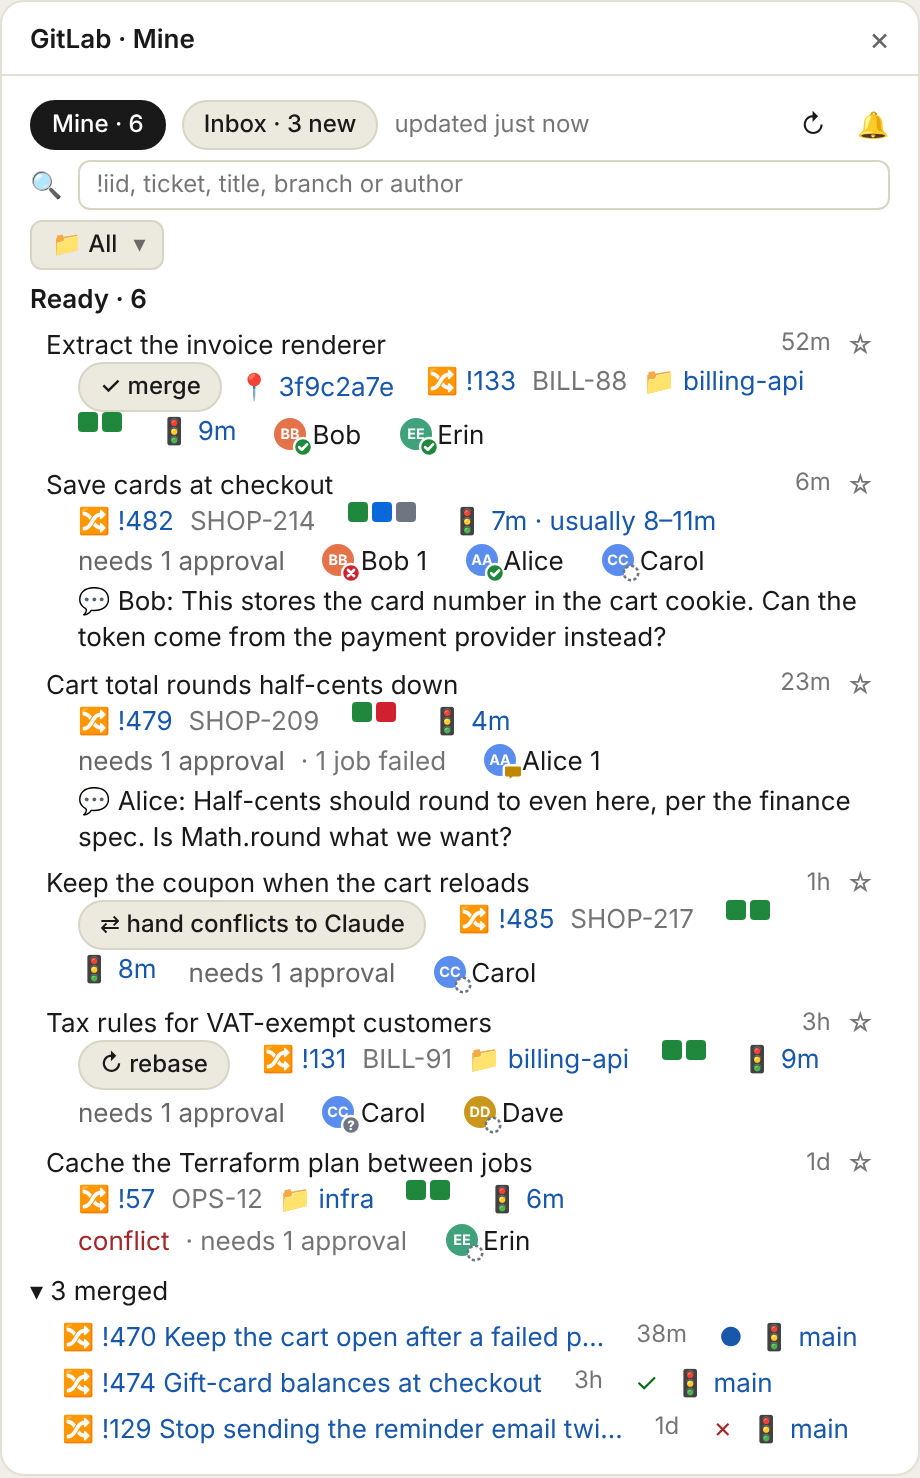
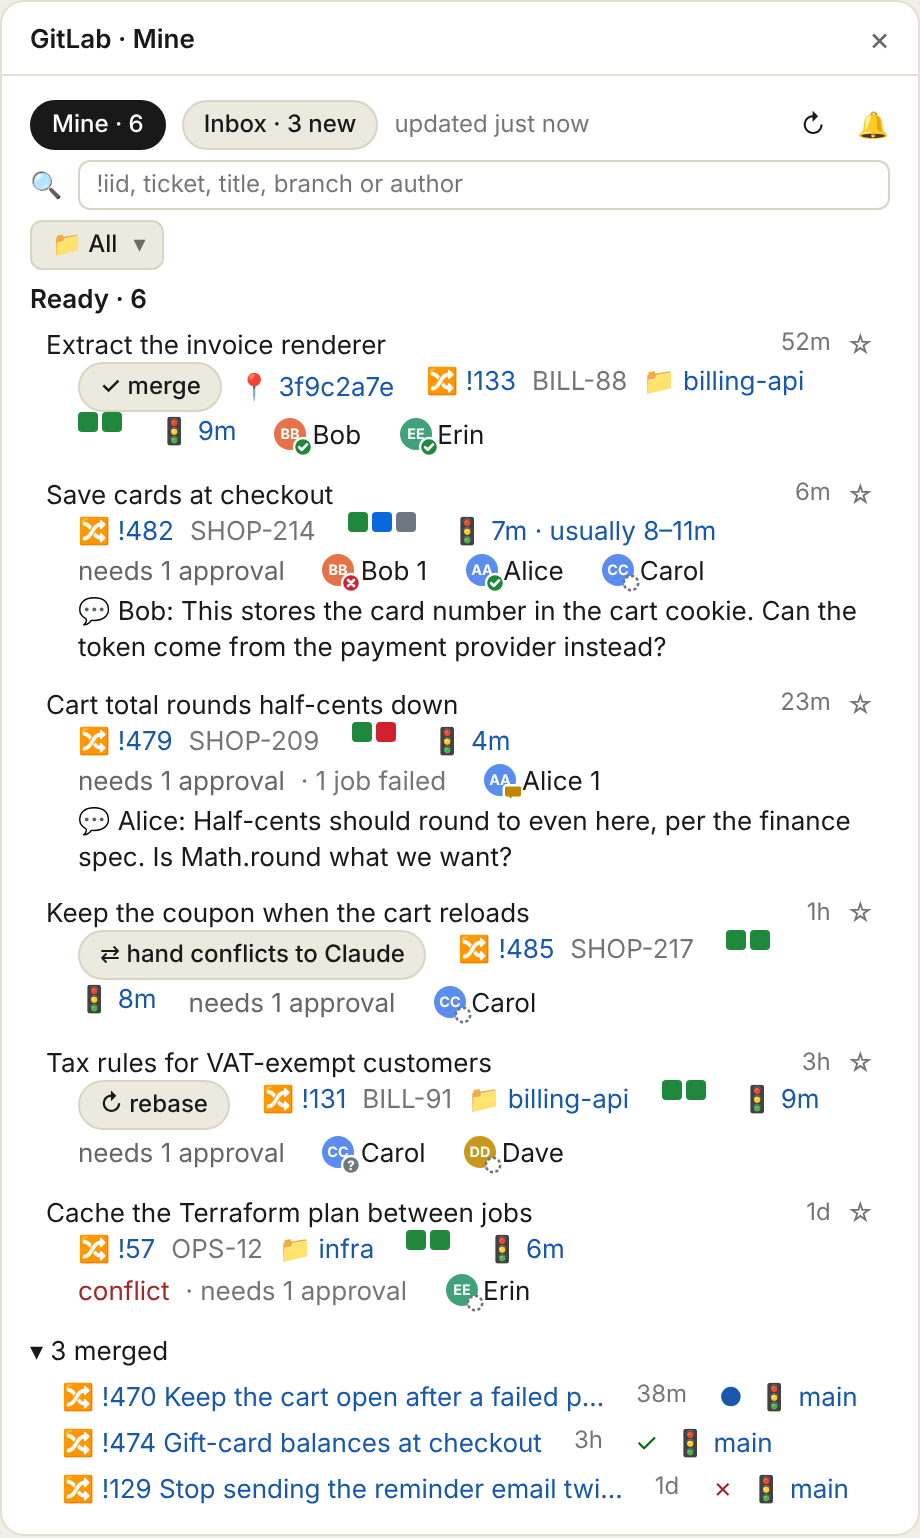
feat(pane): set each card apart by a blank line, now that cards draw no border

diff --git a/hooks/pane.tsx b/hooks/pane.tsx
@@ -113,9 +113,10 @@ export async function drawPane($: EngineInterface, e: RenderInput<'Pane'>) {
       return null
     }
     const { fit } = row
-    // No border: where the MR stands is said by its marks and words, never by a colour alone.
+    // No border: where the MR stands is said by its marks and words, never by a colour alone. A blank line below each card
+    // keeps one card's lines together and apart from the next.
     return (
-      <Box key={row.boxKey} flexDirection="column" paddingX={1}>
+      <Box key={row.boxKey} flexDirection="column" paddingX={1} marginBottom={1}>
         {partOf(row, 'line1').element}
         {!row.isQuiet && (fit.hasFaces ? partOf(row, 'faces').element : partOf(row, 'line2').element)}
         {!row.isQuiet && partOf(row, 'said').element}

diff --git a/tests/watch.test.ts b/tests/watch.test.ts
@@ -1391,8 +1391,9 @@ test('a face says where its reviewer stands by a ✓, ✕, ? or empty dashed bad
   expect(alts).toContain('Ines Mendel, approved')
   expect(alts).toContain('Tessa R, requested changes')
   expect(alts).toContain('Mel Northcote, not reviewed yet')
-  // Where the MR stands is in its marks and words: no card draws a border.
+  // Where the MR stands is in its marks and words: no card draws a border, and a blank line sets each card apart.
   expect(boxesOf(await ui.drawn()).filter(box => box.props?.borderStyle !== undefined)).toEqual([])
+  expect(boxesOf(await ui.drawn()).filter(box => box.props?.marginBottom === 1)).toHaveLength(1)
 
   await ui.unmount()
   const terminal = await $.ui.mount({ ...PANE, surface: 'terminal' })

diff --git a/hooks/inbox-pane.tsx b/hooks/inbox-pane.tsx
@@ -116,7 +116,7 @@ export async function drawInbox($: EngineInterface, e: RenderInput<'Pane'>) {
     const isOpen = canOpen && cards.includes(item.key)
     const buttons = cardButtons(item.key)
     return (
-      <Box key={`ib-${shortHash(item.key)}`} flexDirection="column" paddingX={1}>
+      <Box key={`ib-${shortHash(item.key)}`} flexDirection="column" paddingX={1} marginBottom={1}>
         <Box flexDirection="row" gap={1}>
           <Box flexGrow={1} flexShrink={1}>
             {/* A link-blue title read as a way out to GitLab; the ref on the next line is that way. */}
